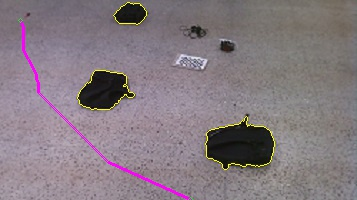
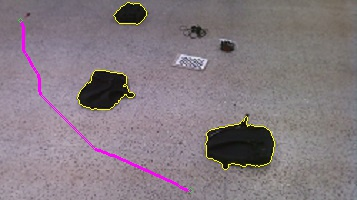
A-star Output Images updated

Changed region(s): [[0.2465, 0.72, 0.5546, 1.0], [0.0616, 0.27, 0.1232, 0.48]]

diff --git a/A-star-feasibility-clearance.py b/A-star-feasibility-clearance.py
@@ -224,7 +224,7 @@ def main():
         '''
         sx = 20 # raw_input("Enter source and destination Coordinates")
         sy = 20  # raw_input()
-        dx = 199   # raw_input()
+        dx = 190   # raw_input()
         dy = 190  # raw_input()
 
        # s = time.clock()
